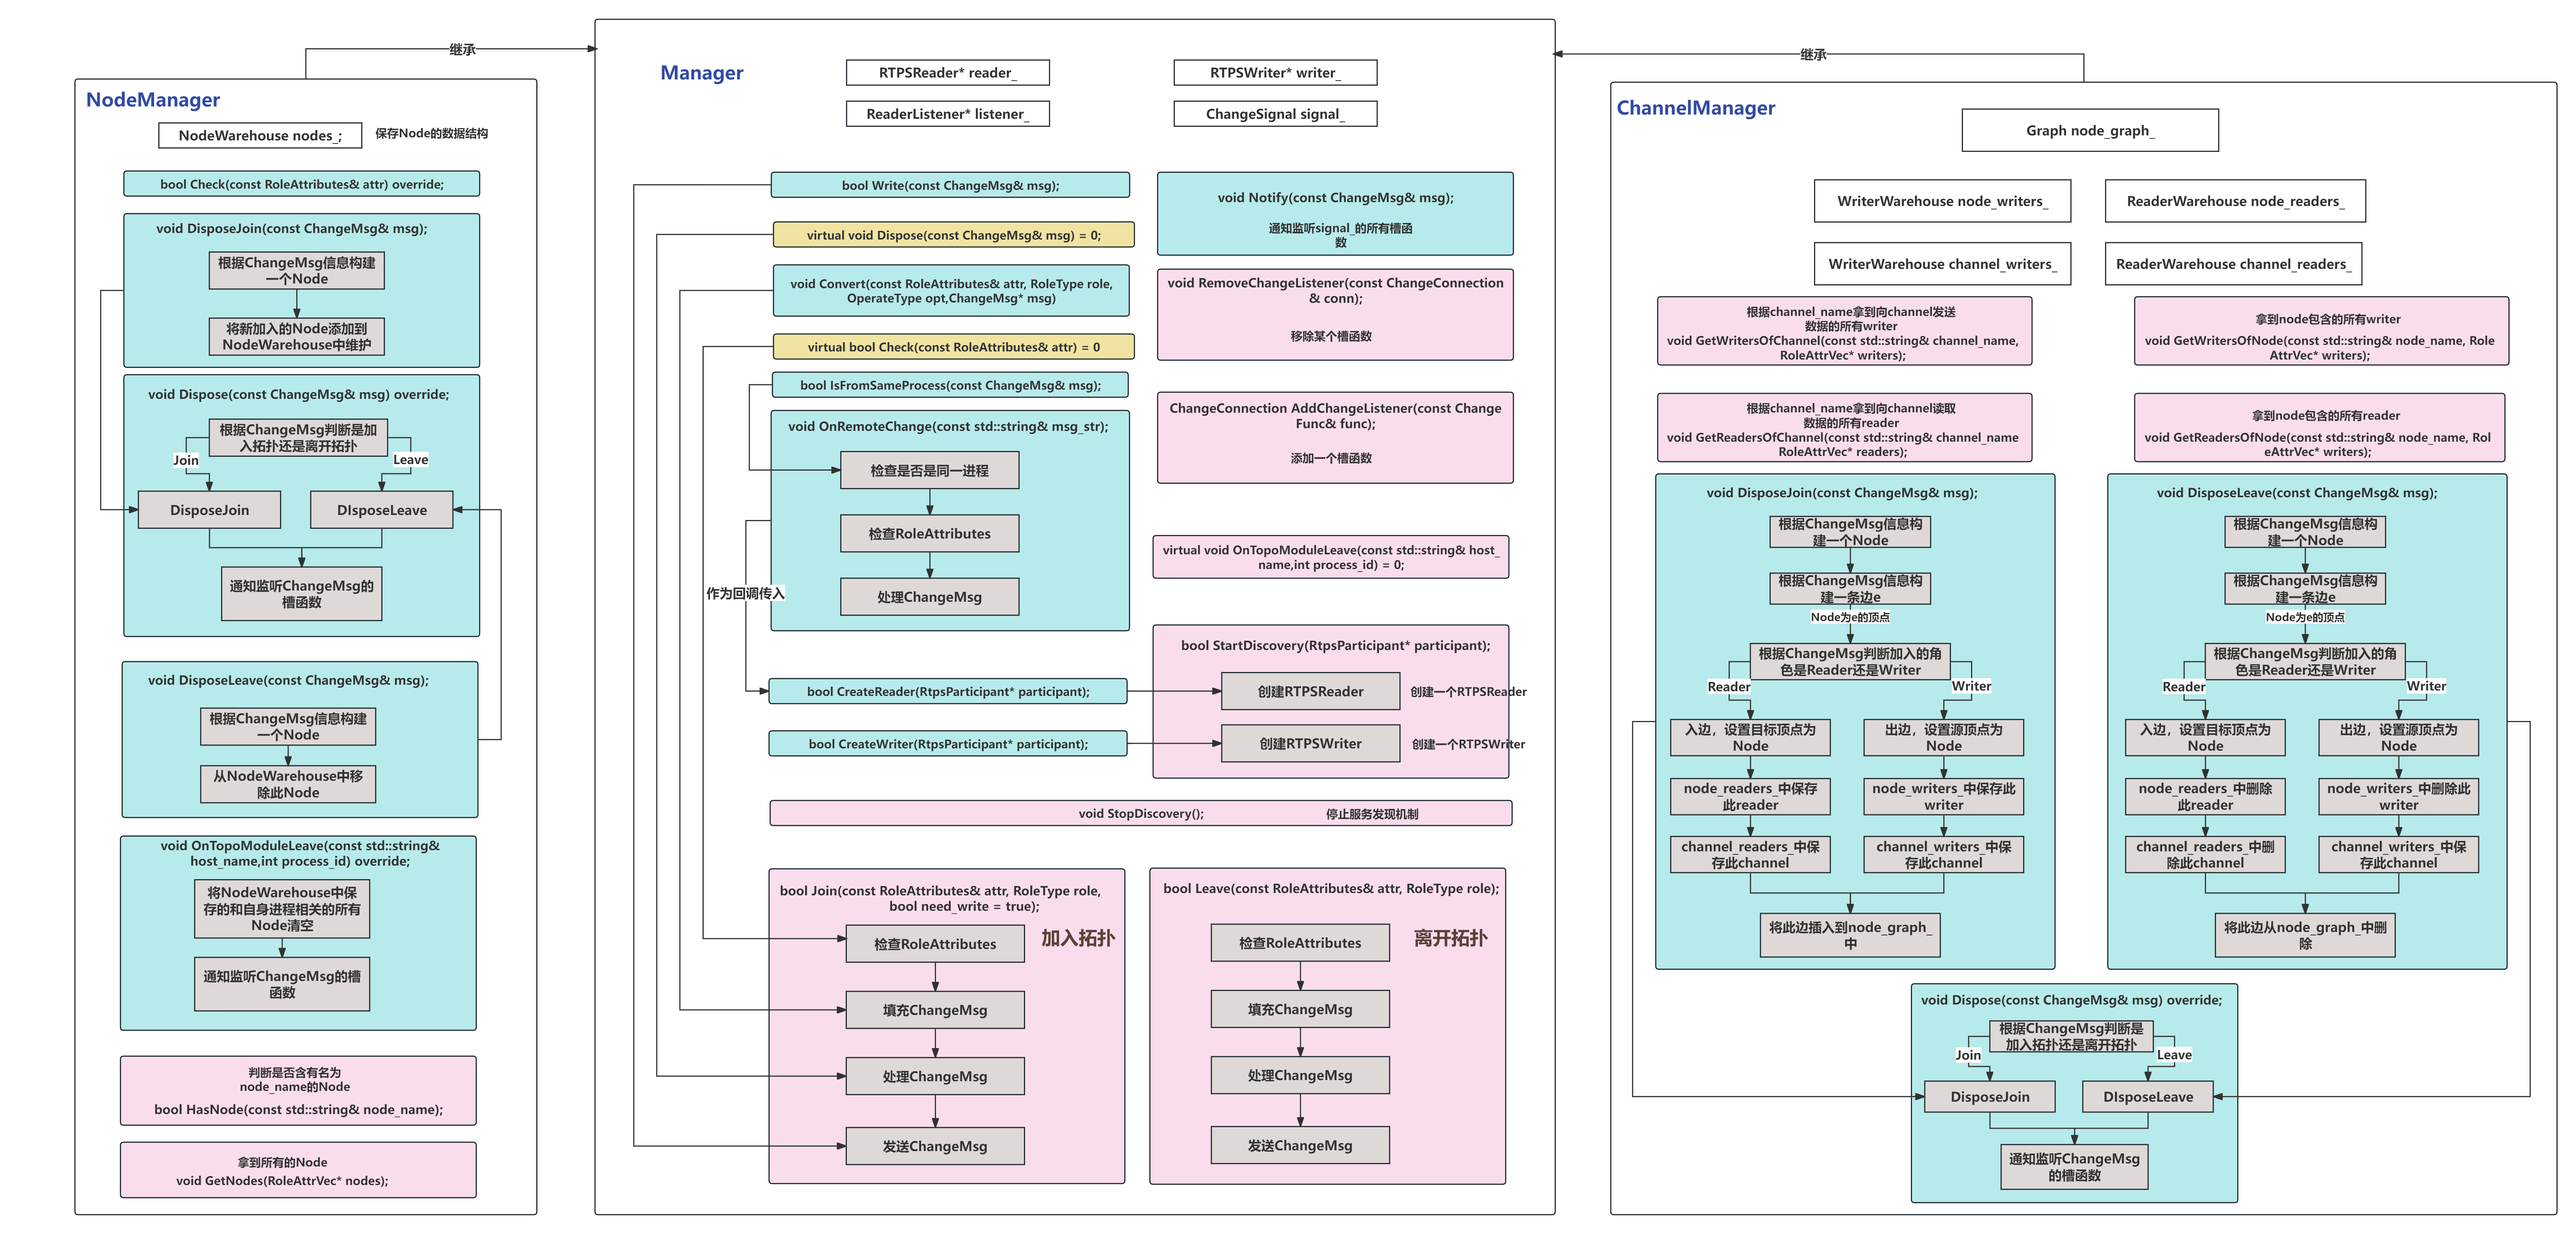
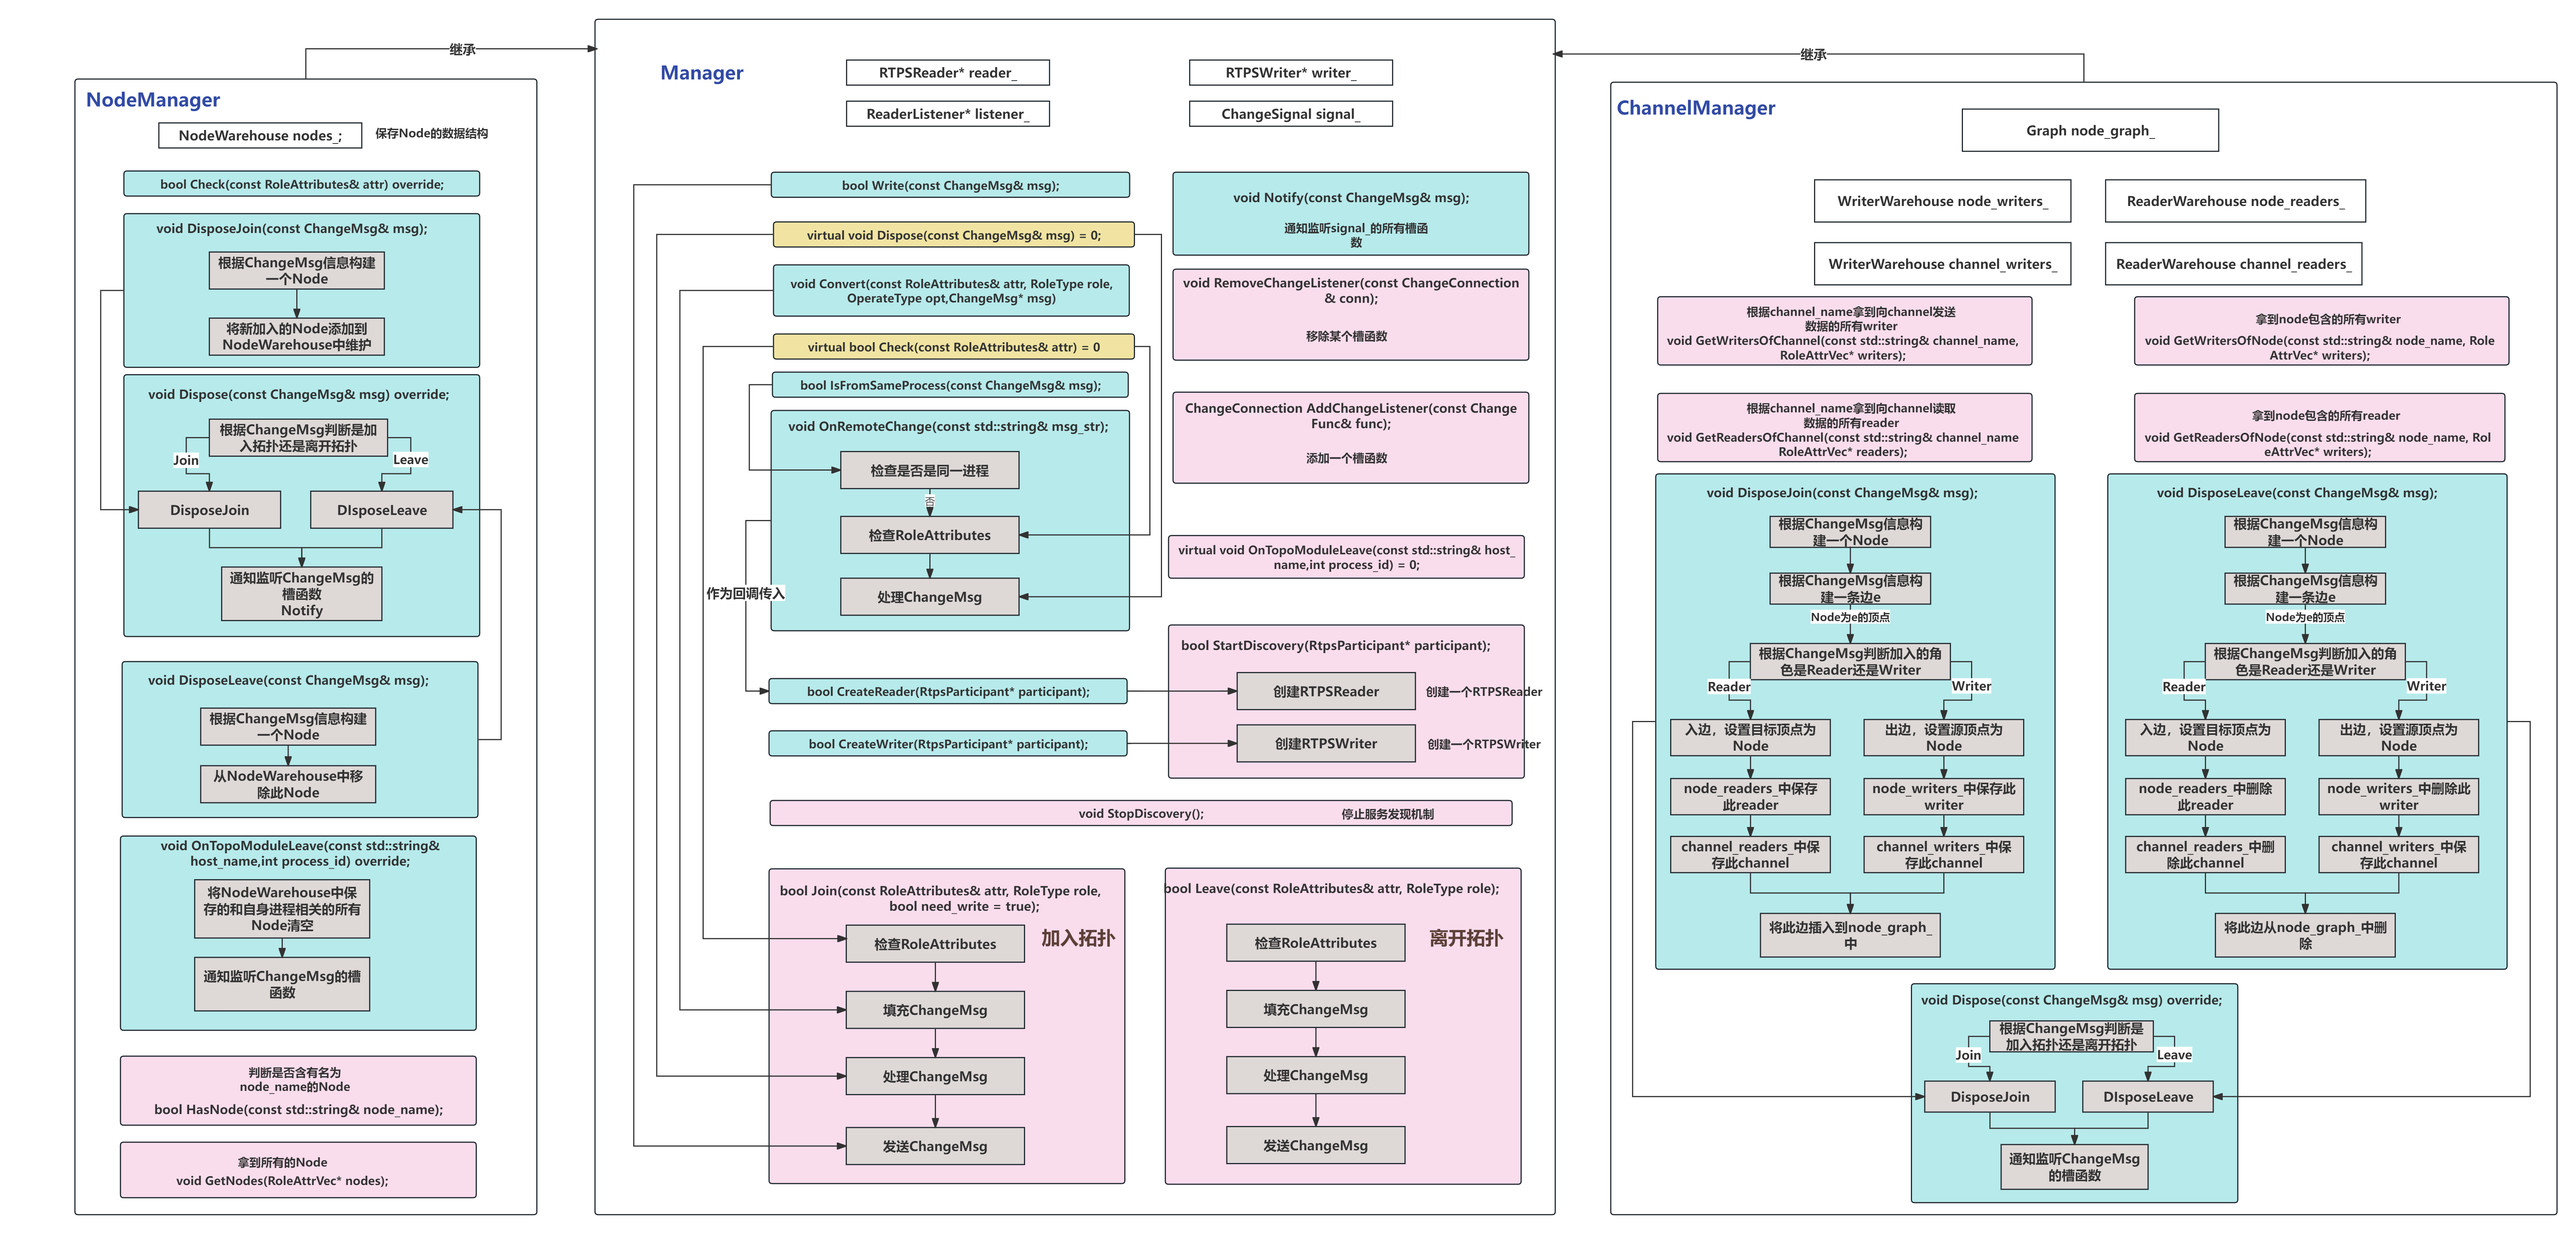
2.10:拓扑机制文档更新

diff --git a/doc/topology.md b/doc/topology.md
@@ -37,7 +37,7 @@ enum RoleType {
   ROLE_READER = 3,      // Subscriber
   ROLE_SERVER = 4,      // 
   ROLE_CLIENT = 5,
-  ROLE_PARTICIPANT = 6,
+  ROLE_PARTICIPANT = 6, //Participant
 };
 ```
 
@@ -350,7 +350,7 @@ bool Graph::LevelTraverse(const Vertice& start, const Vertice& end) {
 
   **----b--->C-----d----->**
 
-![image-20240203193353555](image/image-20240203193353555.png)
+![image-20240204224457005](image/image-20240204224457005.png)
 
 每个节点会维护着上面这样一个图，注意图的顶点是`Node`，而不是`Node`内部的`writer`或者`reader`，除了维护上面这样一个图外，由于每个Node中有多个`writer`或者`reader`，因此内部还需要一个数据结构来存储图中的每个`Node`内部的`writer`或者`reader`，每个角色有自己的`channel_name`。
 
@@ -379,7 +379,7 @@ struct ChangeMsg : public Serializable
 
 通过广播上面的消息，其他节点就知道了是一个新的属于`Node D`的`reader`加入拓扑图了
 
-![image-20240203192429902](image/image-20240203192429902.png)
+![image-20240204224359604](image/image-20240204224359604.png)
 
 ### 4.2 拓扑机制设计
 
@@ -457,3 +457,29 @@ void ChannelManager::DisposeJoin(const ChangeMsg& msg){
 - 一个`Node`中可能包含多个`writer`和`reader`，以`node_id`作为`key`，添加`writer`或者`reader`到`node_writers_`和`node_readers_`这两张表中，整个拓扑图中所有的`reader`和`writer`都可以通过这两张表来查找
 - 同样一个`channel`可能也连接了多个`reader`和`writer`，所以用`channel_writers_`这`channel_readers_`这两张表来保存
 - 最后将边的信息加入拓扑图`node_graph_`中
+
+在`Manager`基类中有一个成员：`signal_`
+
+```c++
+    using ChangeSignal = base::Signal<const ChangeMsg&>;
+    using ChangeFunc = std::function<void(const ChangeMsg&)>;
+    using ChangeConnection = base::Connection<const ChangeMsg&>;
+   //以ChangeMsg作为信号
+    ChangeSignal signal_;
+```
+
+- 这个一个绑定`ChangeMsg`的信号
+- 每一个节点都可以通过`AddChangeListener`来为此信号添加槽函数，也可以通过`RemoveChangeListener`来为此信号删除槽函数
+- 在`Dispose`的最后一步会通过`Notify`函数去执行所有槽函数
+
+### 4.3 拓扑机制的管理
+
+有了上面的`Manager`的类，我们只需要调用类中开启服务发现机制的函数就可实现服务发现的管理了，，除了上面提到的`Node`，`Writer`，`Reader`之外，还有一个角色就是`Participant`,`cmw`中的`Participant`实际上就是`RtpsParticipant`的抽象而已，它也具有`RtpsParticipant`的所有机制，比如当新的`Participant`加入拓扑平面时会广播自身的信息，其他节点会接收到此信息从而去执行相应的回调函数。因此设计了`TopologyManager`这个类
+
+![cmw拓扑机制-TopologyManager](image/cmw拓扑机制-TopologyManager.png)
+
+- `TopologyManager`除了能够监测`Participant`的加入和退出，同时它还持有了`channel_manager`和`node_manager`，因此通过这个类就可以实现对通信平面中所有角色的拓扑管理
+- `TopologyManager`是一个全局单例
+- 每一个`Participant`加入时广播的信息是`PartInfo`，这个数据结构是`Fast-Rtps`中`RtpsParticpant`加入或者离开拓扑时发送的信息，包含了`Participant`的名字以及它是加入还是离开的标志位，还有此`Participant`的`id`
+- 通过对`PartInfo`的解析，就能知道是哪一个进程的什么``RtpsParticpant``加入或者离开拓扑图了，`participant_names_`这个`map`会随之进行更新，以`Participant`的`id`为`key`，`Participant`的名字为`value`
+- 和`channel_manager`和`node_manager`一样，`TopologyManager`内部包含一个`signal_`，这个`signal_`是用于监听`Participant`的行为，通过`AddChangeListener`去添加槽函数，当有新的`Participant`加入或者离开时，添加的槽函数就会被执行
